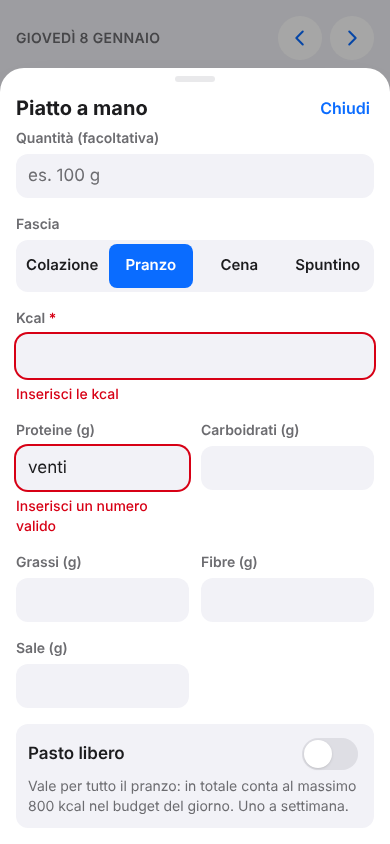
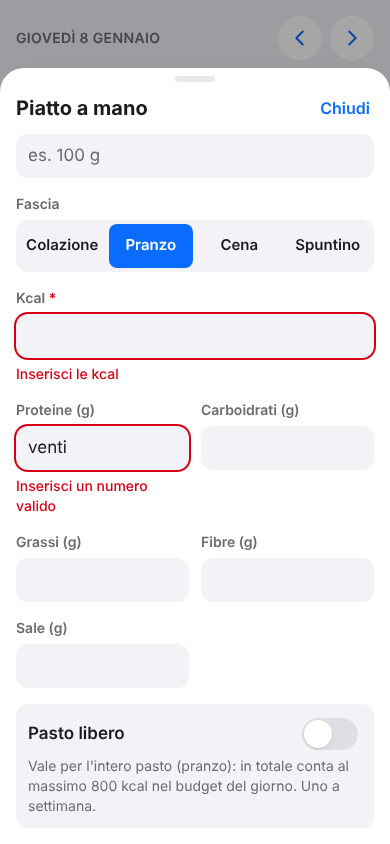
T3.2 correzioni dopo prima revisione (in attesa di nuova revisione)
Claude-Session: https://claude.ai/code/session_015vJA156enAwwDaa2Dedvun

diff --git a/src/app/components/meal-form.tsx b/src/app/components/meal-form.tsx
@@ -10,6 +10,8 @@ interface MealFormProps {
   initial: MealFormValues;
   /** Dice se il pasto di quella fascia può essere libero (false se la settimana ha già un altro pasto libero). */
   freeAllowedFor: (slot: MealSlot) => boolean;
+  /** Dice se il pasto di quella fascia è già libero: scegliendo una fascia l'interruttore ne segue lo stato. */
+  mealIsFreeFor?: (slot: MealSlot) => boolean;
   /** La fascia è già stabilita (si aggiunge un piatto a un pasto) e non si sceglie. */
   lockedSlot?: boolean;
   /** Tetto di kcal del pasto libero, dalle impostazioni. */
@@ -33,7 +35,7 @@ const NUMERIC: { key: Exclude<MealFieldKey, "isFree">; label: string; required?:
 const input = "min-h-11 w-full rounded-xl bg-bg px-3 text-[17px] outline-none placeholder:text-muted focus:ring-2 focus:ring-accent";
 
 /** Modulo per aggiungere o modificare un pasto a mano. */
-export function MealForm({ initial, freeAllowedFor, lockedSlot = false, freeMealCap, submitLabel, onSubmit, onDelete, deleteName }: MealFormProps) {
+export function MealForm({ initial, freeAllowedFor, mealIsFreeFor, lockedSlot = false, freeMealCap, submitLabel, onSubmit, onDelete, deleteName }: MealFormProps) {
   const [values, setValues] = useState<MealFormValues>(initial);
   const [errors, setErrors] = useState<MealFormErrors>({});
   const [saving, setSaving] = useState(false);
@@ -99,7 +101,10 @@ export function MealForm({ initial, freeAllowedFor, lockedSlot = false, freeMeal
               type="button"
               role="radio"
               aria-checked={values.slot === s.value}
-              onClick={() => set("slot", s.value)}
+              onClick={() => {
+                set("slot", s.value);
+                if (mealIsFreeFor) set("isFree", mealIsFreeFor(s.value));
+              }}
               className={`min-h-11 rounded-lg px-1 text-[15px] font-semibold ${values.slot === s.value ? "bg-accent text-white" : "text-fg"}`}
             >
               {s.label}
@@ -157,7 +162,7 @@ export function MealForm({ initial, freeAllowedFor, lockedSlot = false, freeMeal
         <p id="free-help" className="pb-1 text-sm text-muted">
           {switchDisabled
             ? "Hai già usato il pasto libero in questa settimana: ce n'è uno solo."
-            : `Vale per tutto il ${slotName}: in totale conta al massimo ${formatNumber(freeMealCap)} kcal nel budget del giorno. Uno a settimana.`}
+            : `Vale per l'intero pasto (${slotName}): in totale conta al massimo ${formatNumber(freeMealCap)} kcal nel budget del giorno. Uno a settimana.`}
         </p>
         {errors.isFree && <p className="pb-1 text-sm font-medium text-bad">{errors.isFree}</p>}
       </div>

diff --git a/src/app/components/add-panel.tsx b/src/app/components/add-panel.tsx
@@ -6,7 +6,7 @@ import type { DateKey, Day, MealSlot, Settings } from "@/engine";
 import type { ActivityRecord, DataStore, MealRecord } from "@/data";
 import { copyMealsFromYesterday } from "../lib/copy-meals";
 import { newId } from "../lib/ids";
-import { saveDish } from "../lib/save-dish";
+import { isMealFree, saveDish } from "../lib/save-dish";
 import { buildActivityRecord } from "../lib/activity-form";
 import type { ParsedActivity } from "../lib/activity-form";
 import { emptyMealForm, mealToForm } from "../lib/meal-form";
@@ -55,7 +55,8 @@ export function AddPanel(ctx: PanelContext & { initialSlot?: MealSlot }) {
   const { store, date, days, settings, activity, weightKg, onChanged, onClose, initialSlot } = ctx;
   const [view, setView] = useState<"menu" | "pasto" | "attivita" | "pesata">(initialSlot ? "pasto" : "menu");
   const freeAllowedFor = (slot: MealSlot) => !hasFreeMealInWeek(days, { date, slot });
-  const existingFree = (slot: MealSlot) => days.find((d) => d.date === date)?.meals.some((m) => m.slot === slot && m.isFree) ?? false;
+  const dayDishes = days.find((d) => d.date === date)?.meals ?? [];
+  const existingFree = (slot: MealSlot) => isMealFree(dayDishes, slot);
   const [note, setNote] = useState<string | null>(null);
 
   const saveMeal = async (parsed: ParsedMeal) => {
@@ -117,8 +118,9 @@ export function AddPanel(ctx: PanelContext & { initialSlot?: MealSlot }) {
           )}
           {view === "pasto" && (
             <MealForm
-              initial={{ ...emptyMealForm(initialSlot), isFree: initialSlot ? existingFree(initialSlot) : false }}
+              initial={{ ...emptyMealForm(initialSlot), isFree: existingFree(initialSlot ?? emptyMealForm().slot) }}
               freeAllowedFor={freeAllowedFor}
+              mealIsFreeFor={existingFree}
               lockedSlot={initialSlot !== undefined}
               freeMealCap={settings.freeMealCap}
               submitLabel="Aggiungi piatto"
@@ -154,6 +156,7 @@ export function EditMealPanel({ meal, ...ctx }: PanelContext & { meal: MealRecor
       <MealForm
         initial={mealToForm(meal)}
         freeAllowedFor={(slot) => !hasFreeMealInWeek(days, { date: meal.date, slot })}
+        mealIsFreeFor={(slot) => isMealFree(days.find((d) => d.date === meal.date)?.meals ?? [], slot, meal.id)}
         freeMealCap={settings.freeMealCap}
         submitLabel="Salva"
         onSubmit={save}

diff --git a/src/app/lib/save-dish.test.ts b/src/app/lib/save-dish.test.ts
@@ -1,7 +1,7 @@
 import { describe, expect, it } from "vitest";
 import { createMemoryDataStore } from "@/data";
 import type { MealRecord } from "@/data";
-import { saveDish, setMealFree } from "./save-dish";
+import { isMealFree, saveDish, setMealFree } from "./save-dish";
 
 function dish(id: string, slot: MealRecord["slot"], kcal: number, isFree = false, date = "2026-01-08"): MealRecord {
   return { id, date, name: id, quantity: null, slot, kcal, protein: 0, carbs: 0, fat: 0, fiber: 0, salt: 0, isFree, originalText: null };
@@ -64,5 +64,29 @@ describe("setMealFree", () => {
     await s.saveMeal(dish("a", "pranzo", 500, true));
     await setMealFree(s, "2026-01-08", "pranzo", true);
     expect(await free(s)).toEqual({ a: true });
+  });
+});
+
+describe("isMealFree", () => {
+  const dishes = [dish("a", "pranzo", 500, true), dish("b", "pranzo", 300, true), dish("c", "cena", 400)];
+  it("un pasto è libero se almeno un piatto lo è", () => {
+    expect(isMealFree(dishes, "pranzo")).toBe(true);
+    expect(isMealFree(dishes, "cena")).toBe(false);
+    expect(isMealFree(dishes, "colazione")).toBe(false);
+  });
+  it("escludendo un piatto, conta solo gli altri", () => {
+    expect(isMealFree(dishes, "pranzo", "a")).toBe(true);
+    expect(isMealFree([dish("a", "pranzo", 500, true)], "pranzo", "a")).toBe(false);
+  });
+});
+
+describe("aggiunta di un piatto normale a un pasto già libero (dal + generale)", () => {
+  it("il piatto prende il segno del pasto e il pasto resta libero", async () => {
+    const s = createMemoryDataStore();
+    await s.saveMeal(dish("a", "cena", 900, true));
+    // il modulo parte dallo stato del pasto scelto: libero
+    const mealFree = isMealFree(await s.listMeals("2026-01-08"), "cena");
+    await saveDish(s, dish("b", "cena", 200), mealFree);
+    expect(await free(s)).toEqual({ a: true, b: true });
   });
 });

diff --git a/src/app/lib/save-dish.ts b/src/app/lib/save-dish.ts
@@ -1,4 +1,4 @@
-import type { DateKey, MealSlot } from "@/engine";
+import type { DateKey, Meal, MealSlot } from "@/engine";
 import type { DataStore, MealRecord } from "@/data";
 
 /**
@@ -18,4 +18,12 @@ export async function setMealFree(store: DataStore, date: DateKey, slot: MealSlo
   for (const d of dishes) {
     if (d.slot === slot && d.isFree !== isFree) await store.saveMeal({ ...d, isFree });
   }
+}
+
+/**
+ * Dice se il pasto di una fascia è libero, guardando i piatti del giorno (un pasto è libero se almeno un piatto lo è).
+ * `excludeDishId` lascia fuori un piatto (quello che si sta modificando).
+ */
+export function isMealFree(dishes: readonly Pick<Meal, "id" | "slot" | "isFree">[], slot: MealSlot, excludeDishId?: string): boolean {
+  return dishes.some((d) => d.slot === slot && d.isFree && d.id !== excludeDishId);
 }
